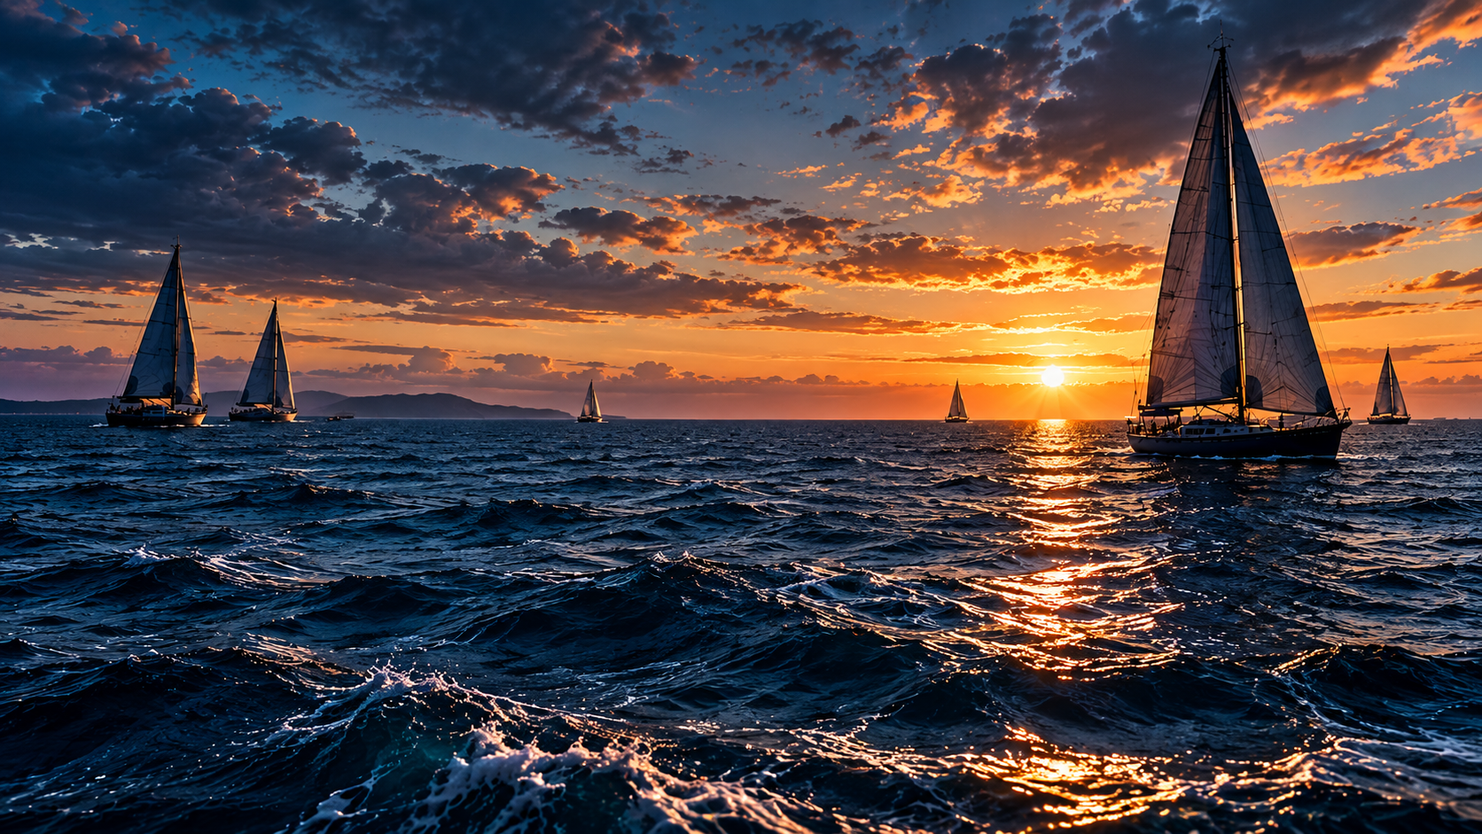
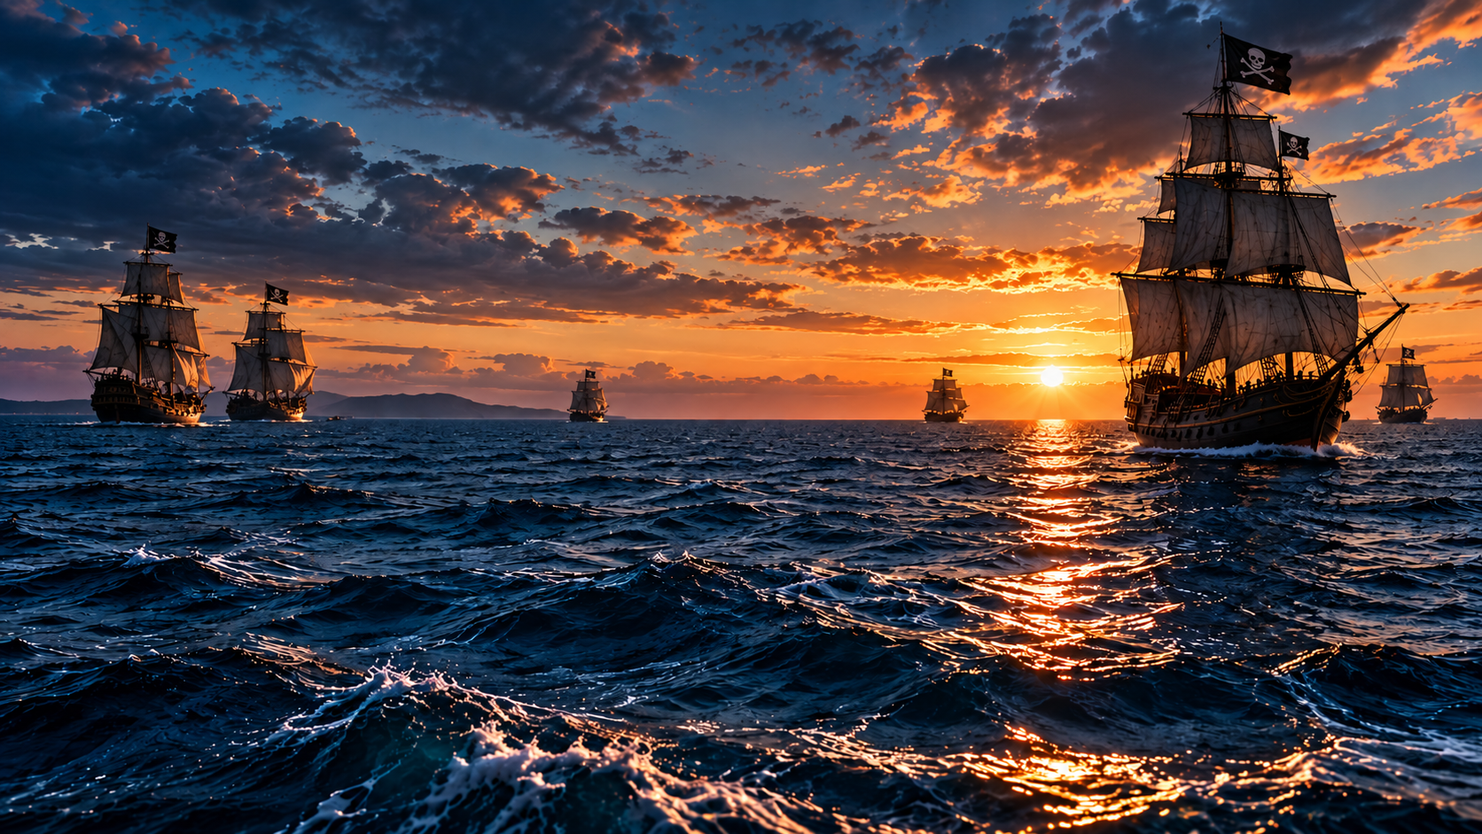
feat: replace sailing boats with pirate ships background

diff --git a/demo/short/index.html b/demo/short/index.html
@@ -1,3 +1,3 @@
 <!doctype html>
-<html lang="en"><head><meta charset="utf-8"><meta name="viewport" content="width=device-width,initial-scale=1"><meta name="description" content="Short Term 15m paper-trading results and recent trades."><title>TradeRRR Demo · Short Term 15m</title><link rel="stylesheet" href="/site-header.css?v=20261004.1"><script src="/site-header.js?v=20261002.2long4h" defer></script><link rel="stylesheet" href="/demo/public.css?v=20261004.5"><link rel="stylesheet" href="/demo/assets.css?v=20261002.3"><script src="/demo/assets.js?v=20261002.3" defer></script><script src="/demo/public.js?v=20261004.1" defer></script></head>
+<html lang="en"><head><meta charset="utf-8"><meta name="viewport" content="width=device-width,initial-scale=1"><meta name="description" content="Short Term 15m paper-trading results and recent trades."><title>TradeRRR Demo · Short Term 15m</title><link rel="stylesheet" href="/site-header.css?v=20261004.1"><script src="/site-header.js?v=20261002.2long4h" defer></script><link rel="stylesheet" href="/demo/public.css?v=20261004.pirates"><link rel="stylesheet" href="/demo/assets.css?v=20261002.3"><script src="/demo/assets.js?v=20261002.3" defer></script><script src="/demo/public.js?v=20261004.1" defer></script></head>
 <body data-page="demo" data-bot="short"><div data-site-header></div><main id="main" class="wrap"><div class="top"><div><h1>Live bot demo · Short Term 15m</h1></div><nav class="timeframes" aria-label="Demo timeframe"><a href="/demo/short/" aria-current="page">15 MIN</a><a href="/demo/">1 HOUR</a><a href="/demo/long/">4 HOUR</a></nav></div><p class="strategy-description">Looks for a pullback within a trend confirmed by closed 1-hour candles. On the 15-minute chart, price must cross back above the 20-period exponential moving average (EMA) with rising RSI for a long, or below it with falling RSI for a short. The 20/50/200 EMAs, MACD and non-zero volume must also agree. Exits use weakening signals, profit targets, a stop-loss and a trailing stop.</p><p class="strategy-description macro-description"><strong>Macro &amp; news · research only.</strong> Daily FRED macro reports and monitored news feed separate shadow analysis, which evaluates context alongside strategy signals without changing trades. These inputs currently do not change this bot's entries, exits or position sizes. A structured economic event calendar is not connected; missing or stale research remains unavailable. <a href="/#macro-base">View the daily macro report and sources</a>.</p><p class="sub">15m timeframe · Paper trading · refreshed every 15 seconds</p><span id="stateBadge" hidden>LOADING</span><div class="summary"><h2 class="summary-label">BOT SETTINGS</h2><div class="grid"><div class="card"><div class="label">Exchange</div><div id="exchange" class="value">—</div></div><div class="card"><div class="label">Starting balance</div><div id="starting" class="value">—</div></div><div class="card"><div class="label">Max open positions</div><div id="maxOpen" class="value">—</div></div><div class="card"><div class="label">Max trade amount</div><div id="maxTrade" class="value">—</div></div><div class="card"><div class="label">Runtime</div><div id="runtime" class="value">—</div></div></div><h2 class="summary-label">PERFORMANCE</h2><div class="grid"><div class="card"><div class="label">Win / loss</div><div id="winRate" class="value">—</div></div><div class="card"><div class="label">Total P/L</div><div id="profit" class="value">—</div><div class="metric-note">including open trades</div></div><div class="card"><div class="label">Total P/L %</div><div id="profitPct" class="value return">—</div><div class="metric-note">including open trades</div></div><div class="card"><div class="label">Max drawdown</div><div id="drawdown" class="value return">—</div></div><div class="card"><div class="label">Completed trades</div><div id="completed" class="value">—</div></div></div></div><section class="section"><h2>Open trades</h2><div class="tablewrap"><table><thead><tr><th>Pair</th><th>Direction</th><th>Entry</th><th>Current</th><th>P/L</th><th>Rationale</th><th>Opened</th></tr></thead><tbody id="openRows"></tbody></table><div id="openEmpty" class="empty">Loading trades…</div></div></section><section class="section"><h2>Recent completed trades</h2><p class="trade-stats">Realised P/L: <span id="realised">—</span></p><div class="tablewrap"><table><thead><tr><th>Pair</th><th>Direction</th><th>Entry</th><th>Exit</th><th>P/L</th><th>Rationale</th><th>Closed</th></tr></thead><tbody id="historyRows"></tbody></table><div id="historyEmpty" class="empty">Loading trades…</div></div></section><section class="section" id="asset-analysis" aria-labelledby="assets-title"><h2 id="assets-title">Asset Analysis</h2><p class="sub">Configured bot assets · public research scores and USD market prices</p><div id="asset-cards"><p class="sub">Awaiting bot asset universe.</p></div></section><p class="sub">Unavailable values are not supplied by the current feed. Paper trading uses simulated funds.</p><div class="foot" id="updated" role="status">Last updated: —</div></main></body></html>

diff --git a/demo/long/index.html b/demo/long/index.html
@@ -1,3 +1,3 @@
 <!doctype html>
-<html lang="en"><head><meta charset="utf-8"><meta name="viewport" content="width=device-width,initial-scale=1"><meta name="description" content="Long Term 4hr paper-trading results and recent trades."><title>TradeRRR Demo · Long Term 4hr</title><link rel="stylesheet" href="/site-header.css?v=20261004.1"><script src="/site-header.js?v=20261002.2long4h" defer></script><link rel="stylesheet" href="/demo/public.css?v=20261004.5"><link rel="stylesheet" href="/demo/assets.css?v=20261002.3"><script src="/demo/assets.js?v=20261002.3" defer></script><script src="/demo/public.js?v=20261004.1" defer></script></head>
+<html lang="en"><head><meta charset="utf-8"><meta name="viewport" content="width=device-width,initial-scale=1"><meta name="description" content="Long Term 4hr paper-trading results and recent trades."><title>TradeRRR Demo · Long Term 4hr</title><link rel="stylesheet" href="/site-header.css?v=20261004.1"><script src="/site-header.js?v=20261002.2long4h" defer></script><link rel="stylesheet" href="/demo/public.css?v=20261004.pirates"><link rel="stylesheet" href="/demo/assets.css?v=20261002.3"><script src="/demo/assets.js?v=20261002.3" defer></script><script src="/demo/public.js?v=20261004.1" defer></script></head>
 <body data-page="demo" data-bot="long"><div data-site-header></div><main id="main" class="wrap"><div class="top"><div><h1>Live bot demo · Long Term 4hr</h1></div><nav class="timeframes" aria-label="Demo timeframe"><a href="/demo/short/">15 MIN</a><a href="/demo/">1 HOUR</a><a href="/demo/long/" aria-current="page">4 HOUR</a></nav></div><p class="strategy-description">Follows 4-hour trends only when closed daily candles confirm the same direction. The 20, 50 and 200-period exponential moving averages (EMAs) check trend and price position; RSI and MACD check momentum, with non-zero volume required. Both long and short trades need this alignment. Exits use weakening trend or momentum, profit targets, a stop-loss and a trailing stop.</p><p class="strategy-description macro-description"><strong>Macro &amp; news · research only.</strong> Daily FRED macro reports and monitored news feed separate shadow analysis, which evaluates context alongside strategy signals without changing trades. These inputs currently do not change this bot's entries, exits or position sizes. A structured economic event calendar is not connected; missing or stale research remains unavailable. <a href="/#macro-base">View the daily macro report and sources</a>.</p><p class="sub">4h timeframe · Paper trading · refreshed every 15 seconds</p><span id="stateBadge" hidden>LOADING</span><div class="summary"><h2 class="summary-label">BOT SETTINGS</h2><div class="grid"><div class="card"><div class="label">Exchange</div><div id="exchange" class="value">—</div></div><div class="card"><div class="label">Starting balance</div><div id="starting" class="value">—</div></div><div class="card"><div class="label">Max open positions</div><div id="maxOpen" class="value">—</div></div><div class="card"><div class="label">Max trade amount</div><div id="maxTrade" class="value">—</div></div><div class="card"><div class="label">Runtime</div><div id="runtime" class="value">—</div></div></div><h2 class="summary-label">PERFORMANCE</h2><div class="grid"><div class="card"><div class="label">Win / loss</div><div id="winRate" class="value">—</div></div><div class="card"><div class="label">Total P/L</div><div id="profit" class="value">—</div><div class="metric-note">including open trades</div></div><div class="card"><div class="label">Total P/L %</div><div id="profitPct" class="value return">—</div><div class="metric-note">including open trades</div></div><div class="card"><div class="label">Max drawdown</div><div id="drawdown" class="value return">—</div></div><div class="card"><div class="label">Completed trades</div><div id="completed" class="value">—</div></div></div></div><section class="section"><h2>Open trades</h2><div class="tablewrap"><table><thead><tr><th>Pair</th><th>Direction</th><th>Entry</th><th>Current</th><th>P/L</th><th>Rationale</th><th>Opened</th></tr></thead><tbody id="openRows"></tbody></table><div id="openEmpty" class="empty">Loading trades…</div></div></section><section class="section"><h2>Recent completed trades</h2><p class="trade-stats">Realised P/L: <span id="realised">—</span></p><div class="tablewrap"><table><thead><tr><th>Pair</th><th>Direction</th><th>Entry</th><th>Exit</th><th>P/L</th><th>Rationale</th><th>Closed</th></tr></thead><tbody id="historyRows"></tbody></table><div id="historyEmpty" class="empty">Loading trades…</div></div></section><section class="section" id="asset-analysis" aria-labelledby="assets-title"><h2 id="assets-title">Asset Analysis</h2><p class="sub">Configured bot assets · public research scores and USD market prices</p><div id="asset-cards"><p class="sub">Awaiting bot asset universe.</p></div></section><p class="sub">Unavailable values are not supplied by the current feed. Paper trading uses simulated funds.</p><div class="foot" id="updated" role="status">Last updated: —</div></main></body></html>

diff --git a/demo/index.html b/demo/index.html
@@ -1,3 +1,3 @@
 <!doctype html>
-<html lang="en"><head><meta charset="utf-8"><meta name="viewport" content="width=device-width,initial-scale=1"><meta name="description" content="Medium 1hr paper-trading results and recent trades."><title>TradeRRR Demo · Medium 1hr</title><link rel="stylesheet" href="/site-header.css?v=20261004.1"><script src="/site-header.js?v=20261002.2long4h" defer></script><link rel="stylesheet" href="/demo/public.css?v=20261004.5"><link rel="stylesheet" href="/demo/assets.css?v=20261002.3"><script src="/demo/assets.js?v=20261002.3" defer></script><script src="/demo/public.js?v=20261004.1" defer></script></head>
+<html lang="en"><head><meta charset="utf-8"><meta name="viewport" content="width=device-width,initial-scale=1"><meta name="description" content="Medium 1hr paper-trading results and recent trades."><title>TradeRRR Demo · Medium 1hr</title><link rel="stylesheet" href="/site-header.css?v=20261004.1"><script src="/site-header.js?v=20261002.2long4h" defer></script><link rel="stylesheet" href="/demo/public.css?v=20261004.pirates"><link rel="stylesheet" href="/demo/assets.css?v=20261002.3"><script src="/demo/assets.js?v=20261002.3" defer></script><script src="/demo/public.js?v=20261004.1" defer></script></head>
 <body data-page="demo" data-bot="medium"><div data-site-header></div><main id="main" class="wrap"><div class="top"><div><h1>Live bot demo · Medium 1hr</h1></div><nav class="timeframes" aria-label="Demo timeframe"><a href="/demo/short/">15 MIN</a><a href="/demo/" aria-current="page">1 HOUR</a><a href="/demo/long/">4 HOUR</a></nav></div><p class="strategy-description">Follows hourly price trends using the 20, 50 and 200-period exponential moving averages (EMAs). RSI and MACD check momentum, with non-zero volume required. Long trades follow the hourly uptrend; short trades also need a confirmed 4-hour downtrend. Trades exit when trend or momentum weakens, or through profit targets, a stop-loss or a trailing stop.</p><p class="strategy-description macro-description"><strong>Macro &amp; news · research only.</strong> Daily FRED macro reports and monitored news feed separate shadow analysis, which evaluates context alongside strategy signals without changing trades. These inputs currently do not change this bot's entries, exits or position sizes. A structured economic event calendar is not connected; missing or stale research remains unavailable. <a href="/#macro-base">View the daily macro report and sources</a>.</p><p class="sub">1h timeframe · Paper trading · refreshed every 15 seconds</p><span id="stateBadge" hidden>LOADING</span><div class="summary"><h2 class="summary-label">BOT SETTINGS</h2><div class="grid"><div class="card"><div class="label">Exchange</div><div id="exchange" class="value">—</div></div><div class="card"><div class="label">Starting balance</div><div id="starting" class="value">—</div></div><div class="card"><div class="label">Max open positions</div><div id="maxOpen" class="value">—</div></div><div class="card"><div class="label">Max trade amount</div><div id="maxTrade" class="value">—</div></div><div class="card"><div class="label">Runtime</div><div id="runtime" class="value">—</div></div></div><h2 class="summary-label">PERFORMANCE</h2><div class="grid"><div class="card"><div class="label">Win / loss</div><div id="winRate" class="value">—</div></div><div class="card"><div class="label">Total P/L</div><div id="profit" class="value">—</div><div class="metric-note">including open trades</div></div><div class="card"><div class="label">Total P/L %</div><div id="profitPct" class="value return">—</div><div class="metric-note">including open trades</div></div><div class="card"><div class="label">Max drawdown</div><div id="drawdown" class="value return">—</div></div><div class="card"><div class="label">Completed trades</div><div id="completed" class="value">—</div></div></div></div><section class="section"><h2>Open trades</h2><div class="tablewrap"><table><thead><tr><th>Pair</th><th>Direction</th><th>Entry</th><th>Current</th><th>P/L</th><th>Rationale</th><th>Opened</th></tr></thead><tbody id="openRows"></tbody></table><div id="openEmpty" class="empty">Loading trades…</div></div></section><section class="section"><h2>Recent completed trades</h2><p class="trade-stats">Realised P/L: <span id="realised">—</span></p><div class="tablewrap"><table><thead><tr><th>Pair</th><th>Direction</th><th>Entry</th><th>Exit</th><th>P/L</th><th>Rationale</th><th>Closed</th></tr></thead><tbody id="historyRows"></tbody></table><div id="historyEmpty" class="empty">Loading trades…</div></div></section><section class="section" id="asset-analysis" aria-labelledby="assets-title"><h2 id="assets-title">Asset Analysis</h2><p class="sub">Configured bot assets · public research scores and USD market prices</p><div id="asset-cards"><p class="sub">Awaiting bot asset universe.</p></div></section><p class="sub">Unavailable values are not supplied by the current feed. Paper trading uses simulated funds.</p><div class="foot" id="updated" role="status">Last updated: —</div></main></body></html>

diff --git a/website/demo/index.html b/website/demo/index.html
@@ -1,3 +1,3 @@
 <!doctype html>
-<html lang="en"><head><meta charset="utf-8"><meta name="viewport" content="width=device-width,initial-scale=1"><meta name="description" content="Medium 1hr paper-trading results and recent trades."><title>TradeRRR Demo · Medium 1hr</title><link rel="stylesheet" href="/site-header.css?v=20261004.1"><script src="/site-header.js?v=20261002.2long4h" defer></script><link rel="stylesheet" href="/demo/public.css?v=20261004.4"><link rel="stylesheet" href="/demo/assets.css?v=20261002.3"><script src="/demo/assets.js?v=20261002.3" defer></script><script src="/demo/public.js?v=20261004.1" defer></script></head>
+<html lang="en"><head><meta charset="utf-8"><meta name="viewport" content="width=device-width,initial-scale=1"><meta name="description" content="Medium 1hr paper-trading results and recent trades."><title>TradeRRR Demo · Medium 1hr</title><link rel="stylesheet" href="/site-header.css?v=20261004.1"><script src="/site-header.js?v=20261002.2long4h" defer></script><link rel="stylesheet" href="/demo/public.css?v=20261004.pirates"><link rel="stylesheet" href="/demo/assets.css?v=20261002.3"><script src="/demo/assets.js?v=20261002.3" defer></script><script src="/demo/public.js?v=20261004.1" defer></script></head>
 <body data-page="demo" data-bot="medium"><div data-site-header></div><main id="main" class="wrap"><div class="top"><div><h1>Live bot demo · Medium 1hr</h1></div><nav class="timeframes" aria-label="Demo timeframe"><a href="/demo/short/">15 MIN</a><a href="/demo/" aria-current="page">1 HOUR</a><a href="/demo/long/">4 HOUR</a></nav></div><p class="strategy-description">Follows hourly price trends using the 20, 50 and 200-period exponential moving averages (EMAs). RSI and MACD check momentum, with non-zero volume required. Long trades follow the hourly uptrend; short trades also need a confirmed 4-hour downtrend. Trades exit when trend or momentum weakens, or through profit targets, a stop-loss or a trailing stop.</p><p class="sub">1h timeframe · Paper trading · refreshed every 15 seconds</p><span id="stateBadge" hidden>LOADING</span><div class="summary"><h2 class="summary-label">BOT SETTINGS</h2><div class="grid"><div class="card"><div class="label">Exchange</div><div id="exchange" class="value">—</div></div><div class="card"><div class="label">Starting balance</div><div id="starting" class="value">—</div></div><div class="card"><div class="label">Max open positions</div><div id="maxOpen" class="value">—</div></div><div class="card"><div class="label">Max trade amount</div><div id="maxTrade" class="value">—</div></div><div class="card"><div class="label">Runtime</div><div id="runtime" class="value">—</div></div></div><h2 class="summary-label">PERFORMANCE</h2><div class="grid"><div class="card"><div class="label">Win / loss</div><div id="winRate" class="value">—</div></div><div class="card"><div class="label">Total P/L</div><div id="profit" class="value">—</div><div class="metric-note">including open trades</div></div><div class="card"><div class="label">Total P/L %</div><div id="profitPct" class="value return">—</div><div class="metric-note">including open trades</div></div><div class="card"><div class="label">Max drawdown</div><div id="drawdown" class="value return">—</div></div><div class="card"><div class="label">Completed trades</div><div id="completed" class="value">—</div></div></div></div><section class="section"><h2>Open trades</h2><div class="tablewrap"><table><thead><tr><th>Pair</th><th>Direction</th><th>Entry</th><th>Current</th><th>P/L</th><th>Rationale</th><th>Opened</th></tr></thead><tbody id="openRows"></tbody></table><div id="openEmpty" class="empty">Loading trades…</div></div></section><section class="section"><h2>Recent completed trades</h2><p class="trade-stats">Realised P/L: <span id="realised">—</span></p><div class="tablewrap"><table><thead><tr><th>Pair</th><th>Direction</th><th>Entry</th><th>Exit</th><th>P/L</th><th>Rationale</th><th>Closed</th></tr></thead><tbody id="historyRows"></tbody></table><div id="historyEmpty" class="empty">Loading trades…</div></div></section><section class="section" id="asset-analysis" aria-labelledby="assets-title"><h2 id="assets-title">Asset Analysis</h2><p class="sub">Configured bot assets · public research scores and USD market prices</p><div id="asset-cards"><p class="sub">Awaiting bot asset universe.</p></div></section><p class="sub">Unavailable values are not supplied by the current feed. Paper trading uses simulated funds.</p><div class="foot" id="updated" role="status">Last updated: —</div></main></body></html>

diff --git a/demo/public.css b/demo/public.css
@@ -1,4 +1,4 @@
-:root{color-scheme:dark;--muted:#8e98a8;--line:#252c39}*{box-sizing:border-box}body{margin:0;background:linear-gradient(#03080f55,#03080f77),url('/assets/background.png') center/cover fixed;color:#edf2f7;font:16px Inter,system-ui,sans-serif}.wrap{width:calc(100% - 160px);max-width:1380px;margin:auto;padding:28px;background:#080d14f0;min-height:85vh}h1{font-size:clamp(24px,3vw,36px);margin:0}h2{font-size:18px}.top{display:flex;justify-content:space-between;gap:16px;flex-wrap:wrap}.sub,.foot{color:var(--muted);font-size:13px}.badge{border:1px solid var(--line);border-radius:20px;padding:8px 12px;display:inline-block}.timeframes{display:flex;gap:8px;flex-wrap:wrap;margin:22px 0}.timeframes a{padding:10px 14px;border:1px solid var(--line);border-radius:8px;color:inherit;text-decoration:none}.timeframes [aria-current]{color:#37e68b;border-color:#37e68b;background:#37e68b14}.grid{display:grid;grid-template-columns:repeat(5,minmax(0,1fr));gap:12px}.card{border:1px solid var(--line);border-radius:12px;padding:16px;background:#11151d}.label{color:var(--muted);font-size:12px}.value{font-size:23px;font-weight:700;margin-top:8px;overflow-wrap:anywhere}.tablewrap{overflow:auto;max-width:100%;border:1px solid var(--line);border-radius:12px}table{border-collapse:collapse;width:100%;min-width:780px}th,td{text-align:left;padding:12px;border-bottom:1px solid var(--line);font-size:13px}th{color:var(--muted)}.empty{text-align:center;padding:24px;color:var(--muted)}[hidden]{display:none!important}.section{margin-top:24px}.foot{margin-top:20px}@media(max-width:900px){.wrap{width:calc(100% - 48px);padding:20px}.grid{grid-template-columns:repeat(2,minmax(0,1fr))}}@media(max-width:560px){body{background-attachment:scroll}.wrap{width:calc(100% - 24px);padding:16px}.grid{grid-template-columns:1fr}.timeframes a{font-size:13px;padding:10px}}
+:root{color-scheme:dark;--muted:#8e98a8;--line:#252c39}*{box-sizing:border-box}body{margin:0;background:linear-gradient(#03080f55,#03080f77),url('/assets/background.png?v=20261004.pirates') center/cover fixed;color:#edf2f7;font:16px Inter,system-ui,sans-serif}.wrap{width:calc(100% - 160px);max-width:1380px;margin:auto;padding:28px;background:#080d14f0;min-height:85vh}h1{font-size:clamp(24px,3vw,36px);margin:0}h2{font-size:18px}.top{display:flex;justify-content:space-between;gap:16px;flex-wrap:wrap}.sub,.foot{color:var(--muted);font-size:13px}.badge{border:1px solid var(--line);border-radius:20px;padding:8px 12px;display:inline-block}.timeframes{display:flex;gap:8px;flex-wrap:wrap;margin:22px 0}.timeframes a{padding:10px 14px;border:1px solid var(--line);border-radius:8px;color:inherit;text-decoration:none}.timeframes [aria-current]{color:#37e68b;border-color:#37e68b;background:#37e68b14}.grid{display:grid;grid-template-columns:repeat(5,minmax(0,1fr));gap:12px}.card{border:1px solid var(--line);border-radius:12px;padding:16px;background:#11151d}.label{color:var(--muted);font-size:12px}.value{font-size:23px;font-weight:700;margin-top:8px;overflow-wrap:anywhere}.tablewrap{overflow:auto;max-width:100%;border:1px solid var(--line);border-radius:12px}table{border-collapse:collapse;width:100%;min-width:780px}th,td{text-align:left;padding:12px;border-bottom:1px solid var(--line);font-size:13px}th{color:var(--muted)}.empty{text-align:center;padding:24px;color:var(--muted)}[hidden]{display:none!important}.section{margin-top:24px}.foot{margin-top:20px}@media(max-width:900px){.wrap{width:calc(100% - 48px);padding:20px}.grid{grid-template-columns:repeat(2,minmax(0,1fr))}}@media(max-width:560px){body{background-attachment:scroll}.wrap{width:calc(100% - 24px);padding:16px}.grid{grid-template-columns:1fr}.timeframes a{font-size:13px;padding:10px}}
 
 .pos{color:#37e68b}.neg{color:#ff5d73}.return{overflow-wrap:anywhere}.card{min-width:0}.grid>.card{min-height:140px}
 

diff --git a/style.css b/style.css
@@ -5,7 +5,7 @@ body{
 margin:0;
 background:
 linear-gradient(rgba(3,8,15,.18),rgba(3,8,15,.38)),
-url("/assets/background.png?v=20260930.2") center center / cover fixed no-repeat;
+url("/assets/background.png?v=20261004.pirates") center center / cover fixed no-repeat;
 color:var(--text);
 font:15px/1.65 system-ui,-apple-system,BlinkMacSystemFont,"Segoe UI",sans-serif;
 -webkit-font-smoothing:antialiased
@@ -25,7 +25,7 @@ padding-right:28px;
 background:rgba(8,13,20,.94)
 }
 
-/* Keep the sailing image outside the readable site surface. */
+/* Keep the pirate ship image outside the readable site surface. */
 main.shell{
 box-shadow:0 0 70px rgba(0,0,0,.5)
 }

diff --git a/index.html b/index.html
@@ -6,7 +6,7 @@
 <meta name="description" content="RRR.Trading: automated crypto market analysis, market regime research, and the RRR.Trading paper-trading experiment.">
 <meta name="theme-color" content="#080d14">
 <title>RRR.TRADING — Crypto analysis without the emotion</title>
-<link rel="stylesheet" href="/style.css?v=20261004.1">
+<link rel="stylesheet" href="/style.css?v=20261004.pirates">
 <link rel="stylesheet" href="/site-header.css?v=20261004.1">
 <script src="/site-header.js?v=20261002.2" defer></script>
 <script src="script.js?v=20261003.2" defer>

diff --git a/reports.html b/reports.html
@@ -6,7 +6,7 @@
 <meta name="description" content="RRR.Trading: automated crypto market analysis, market regime research, and the RRR.Trading paper-trading experiment.">
 <meta name="theme-color" content="#080d14">
 <title>Reports — RRR.TRADING</title>
-<link rel="stylesheet" href="/style.css?v=20261002.2">
+<link rel="stylesheet" href="/style.css?v=20261004.pirates">
 <link rel="stylesheet" href="/site-header.css?v=20261004.1">
 <script src="/site-header.js?v=20261002.2" defer></script>
 <script src="reports.js?v=20261002.2" defer></script>

diff --git a/about.html b/about.html
@@ -6,7 +6,7 @@
 <meta name="description" content="RRR.Trading: automated crypto market analysis, market regime research, and the RRR.Trading paper-trading experiment.">
 <meta name="theme-color" content="#080d14">
 <title>About — RRR.TRADING</title>
-<link rel="stylesheet" href="/style.css?v=20261002.2">
+<link rel="stylesheet" href="/style.css?v=20261004.pirates">
 <link rel="stylesheet" href="/site-header.css?v=20261004.1">
 <script src="/site-header.js?v=20261002.2" defer></script>
 
